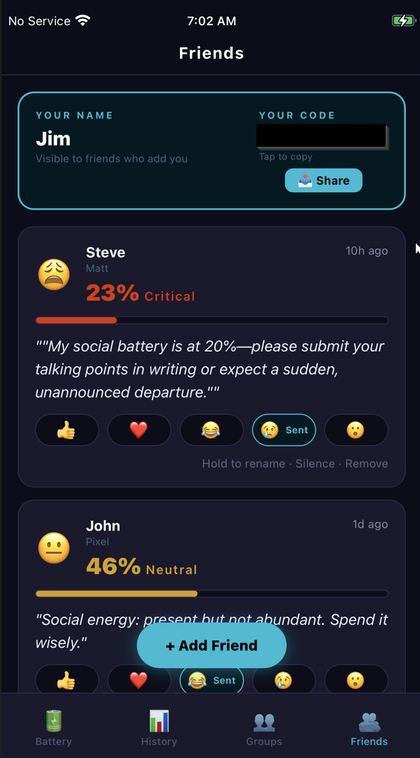
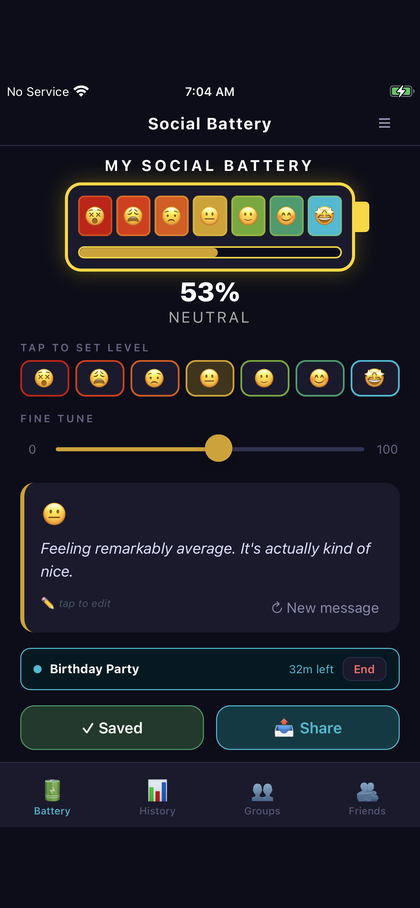
Add files via upload

diff --git a/index.html b/index.html
@@ -273,9 +273,10 @@
     <div class="wrap">
       <h2>See it in action</h2>
       <div class="shots">
-        <img src="assets/shot1.png" alt="Social Battery friends feed screenshot">
-        <img src="assets/shot2.png" alt="Social Battery status screenshot">
-        <img src="assets/shot3.png" alt="Social Battery battery level screenshot">
+        <img src="assets/shot1.png" alt="Social Battery main battery level screenshot">
+        <img src="assets/shot-messages.png" alt="Social Battery message manager screenshot">
+        <img src="assets/shot2.png" alt="Social Battery groups screenshot">
+        <img src="assets/shot3.png" alt="Social Battery friends feed screenshot">
       </div>
     </div>
   </section>
@@ -316,6 +317,7 @@
         <div class="feature"><strong>Groups</strong> — organize friends into work, family, besties, and more.</div>
         <div class="feature"><strong>History &amp; charts</strong> — track your own battery trends over time.</div>
         <div class="feature"><strong>Share anywhere</strong> — export your status to WhatsApp, iMessage, Instagram, and more.</div>
+        <div class="feature"><strong>Set an event</strong> — create a custom event with a duration so friends know exactly why your battery is where it's at.</div>
       </div>
     </div>
   </section>
